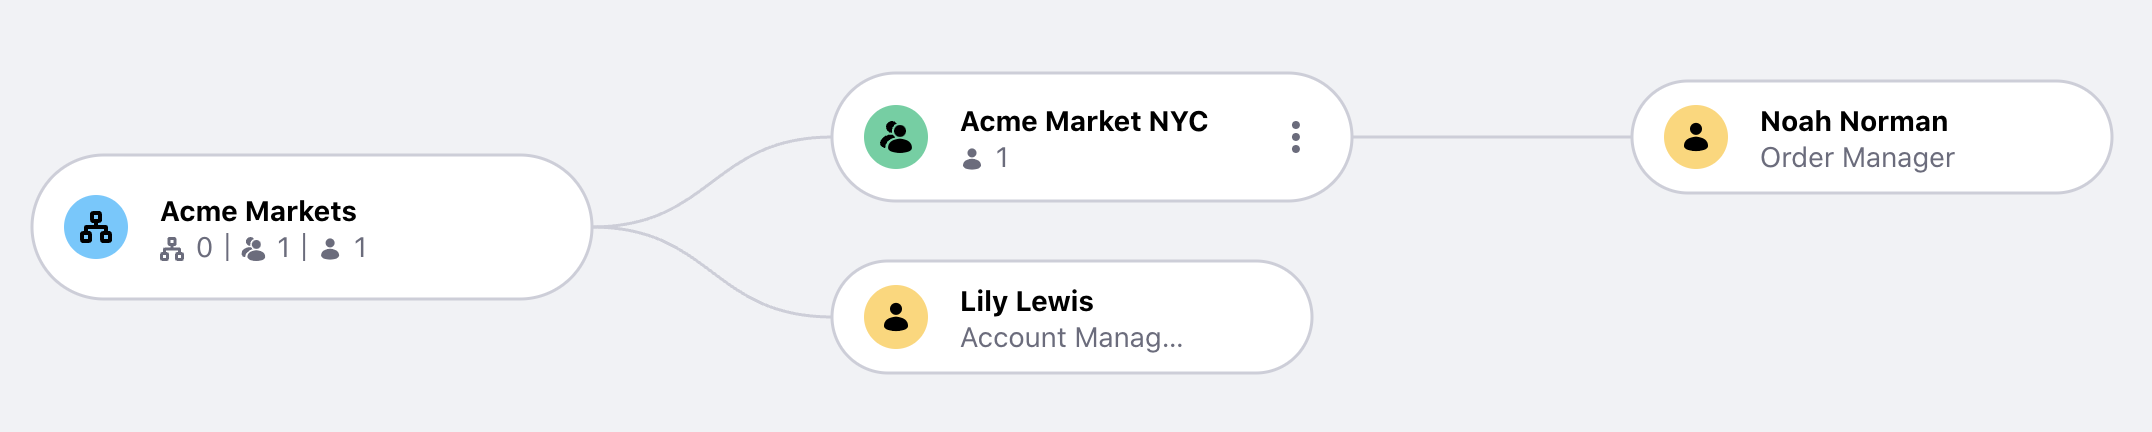
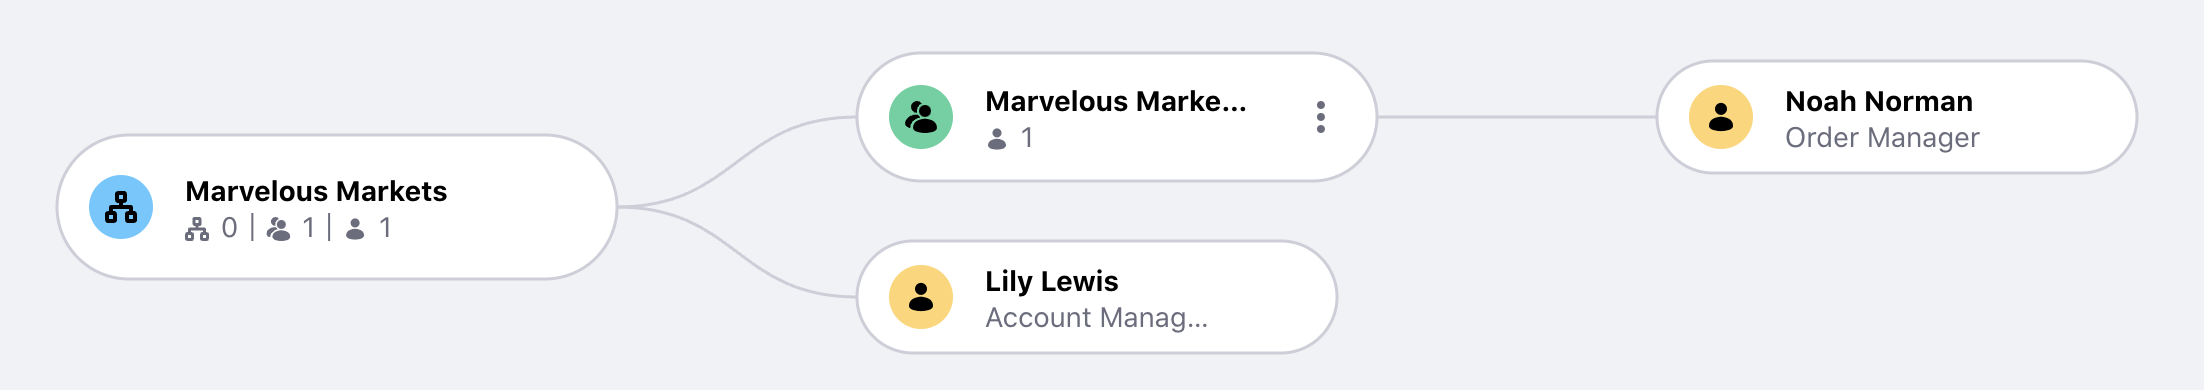
LRDOCS-11571 changed to marvelous markets

diff --git a/docs/courses/latest/en/liferay-administrator/users-accounts-organizations/working-with-accounts.md b/docs/courses/latest/en/liferay-administrator/users-accounts-organizations/working-with-accounts.md
@@ -8,11 +8,11 @@ Create a business type account:
 
 1. Navigate to _Global Menu_ (![Global Menu](../../images/icon-applications-menu.png)) &rarr; _Control Panel_ &rarr; _Accounts_. Click _Add Account_ (![Add icon](../../images/icon-add.png)).
 
-1. In the new window, input `Acme Market NYC` for account name. Click _Save_.
+1. In the new window, input `Marvelous Markets NYC` for account name. Click _Save_.
 
 1. Click the _Addresses_ tab. Click _Add_ (![Add icon](../../images/icon-add.png)). Input the following:
 
-   * Name: `Acme Market NYC`
+   * Name: `Marvelous Markets NYC`
    * Country: `United States`
    * Street 1: `123 Anywhere St`
    * City: `New York`
@@ -25,12 +25,12 @@ Create a business type account:
 
 Create a new user for the account you just made. Note, new users can be created for accounts, or existing users can be associated to accounts.
 
-1. Navigate to _Global Menu_ (![Global Menu](../../images/icon-applications-menu.png)) &rarr; _Control Panel_ &rarr; _Account Users_. Click _Add User_ (![Add icon](../../images/icon-add.png)). Click _Choose_ next to Acme Market NYC.
+1. Navigate to _Global Menu_ (![Global Menu](../../images/icon-applications-menu.png)) &rarr; _Control Panel_ &rarr; _Account Users_. Click _Add User_ (![Add icon](../../images/icon-add.png)). Click _Choose_ next to Marvelous Markets NYC.
 
 1. Create the following store manager:
 
    * Screen Name: `Noah`
-   * Email Address: `noah@acmemarket.com`
+   * Email Address: `noah@marvelousmarkets.com`
    * First Name: `Noah`
    * Last Name: `Norman`
    * Job Title: `Store Manager`
@@ -41,7 +41,7 @@ Create a new user for the account you just made. Note, new users can be created 
 
 For each account, a business might have multiple users and multiple roles. For example, the account buyer might handle creating orders but the order manager might handle approving the orders. Assign Noah with the order manager role.
 
-1. Navigate to _Global Menu_ (![Global Menu](../../images/icon-applications-menu.png)) &rarr; _Control Panel_ &rarr; _Accounts_. Click on _Acme Market NYC_. Click the _Roles_ tab. Click _Order Manager_.
+1. Navigate to _Global Menu_ (![Global Menu](../../images/icon-applications-menu.png)) &rarr; _Control Panel_ &rarr; _Accounts_. Click on _Marvelous Markets NYC_. Click the _Roles_ tab. Click _Order Manager_.
 
 1. In the next window, click _Assign User_ (![Add icon](../../images/icon-add.png)). Select Noah Norman and click _Assign_.
 
@@ -53,27 +53,27 @@ Use account groups to help organize multiple accounts.
 
 1. Navigate to _Global Menu_ (![Global Menu](../../images/icon-applications-menu.png)) &rarr; _Control Panel_ &rarr; _Account Groups_. Click _Add Account Group_ (![Add icon](../../images/icon-add.png)). 
 
-1. Give the name `Acme Market East Coast` for the account group name. Click _Save_.
+1. Give the name `Marvelous Markets East Coast` for the account group name. Click _Save_.
 
-1. Click the _Accounts_ tab and click _Assign Account_ (![Add icon](../../images/icon-add.png)). In the new window, select _Acme Market NYC_ and click _Assign_. In this way, multiple Acme markets in the east coast region an be added to the group.
+1. Click the _Accounts_ tab and click _Assign Account_ (![Add icon](../../images/icon-add.png)). In the new window, select _Marvelous Markets NYC_ and click _Assign_. In this way, multiple Marvelous markets in the east coast region an be added to the group.
 
-In addition to account roles, an account manager role can be assigned to a whole organization. Therefore, in a situation where an entity (e.g. Acme Markets) has multiple accounts, create an organization for the accounts to be a part of. Then assign an account manager to that organization. 
+In addition to account roles, an account manager role can be assigned to a whole organization. Therefore, in a situation where an entity (e.g. Marvelous Markets) has multiple accounts, create an organization for the accounts to be a part of. Then assign an account manager to that organization. 
 
-1. Navigate to _Global Menu_ (![Global Menu](../../images/icon-applications-menu.png)) &rarr; _Control Panel_ &rarr; _Users and Organizations_. Click the _Organizations_ tab. Click _Add_ (![Add icon](../../images/icon-add.png)). Input `Acme Markets` in the _Name_ field. Click _Save_.
+1. Navigate to _Global Menu_ (![Global Menu](../../images/icon-applications-menu.png)) &rarr; _Control Panel_ &rarr; _Users and Organizations_. Click the _Organizations_ tab. Click _Add_ (![Add icon](../../images/icon-add.png)). Input `Marvelous Markets` in the _Name_ field. Click _Save_.
 
-1. Navigate to _Control Panel_ &rarr; _Accounts_. Click _Acme Market NYC_. Click the _Organizations_ tab. Click _Assign Organizations_ (![Add icon](../../images/icon-add.png)). 
+1. Navigate to _Control Panel_ &rarr; _Accounts_. Click _Marvelous Markets NYC_. Click the _Organizations_ tab. Click _Assign Organizations_ (![Add icon](../../images/icon-add.png)). 
 
-1. In the new window, select _Acme Markets_ and click _Assign_. The Acme Market NYC account is now part of the Acme Markets organization.
+1. In the new window, select _Marvelous Markets_ and click _Assign_. The Marvelous Markets NYC account is now part of the Marvelous Markets organization.
 
-   ![Acme Market NYC is now part of the Acme Markets organization.](./working-with-accounts/images/01.png)
+   ![Marvelous Markets NYC is now part of the Marvelous Markets organization.](./working-with-accounts/images/01.png)
 
-1. Now make Lily Lewis an account manager. Navigate to _Control Panel_ &rarr; _Users and Organizations_. Click on _Lily Lewis_. Click _Organizations_ in the left navigation. Click _Select_ and click _Choose_ next to Acme Markets. Click _Save_. Lily Lewis is now also part of the Acme Markets organization.
+1. Now make Lily Lewis an account manager. Navigate to _Control Panel_ &rarr; _Users and Organizations_. Click on _Lily Lewis_. Click _Organizations_ in the left navigation. Click _Select_ and click _Choose_ next to Marvelous Markets. Click _Save_. Lily Lewis is now also part of the Marvelous Markets organization.
 
 1. Click _Roles_ in the left navigation. Click _Select_ next to organization roles. Click _Choose_ next to Account Manager. Click _Save_. 
 
-   ![Lily Lewis is not an account manager for Acme Market.](./working-with-accounts/images/02.png)
+   ![Lily Lewis is now an account manager for Marvelous Markets.](./working-with-accounts/images/02.png)
 
-   Lily Lewis is now an account manager for all accounts in the Acme Market organization. The account manager can take actions, such as placing orders, on behalf of accounts. 
+   Lily Lewis is now an account manager for all accounts in the Marvelous Markets organization. The account manager can take actions, such as placing orders, on behalf of accounts. 
 
 You have completed this module on users, accounts, organizations, and permissions. The next module is all about [User Data]().
 
